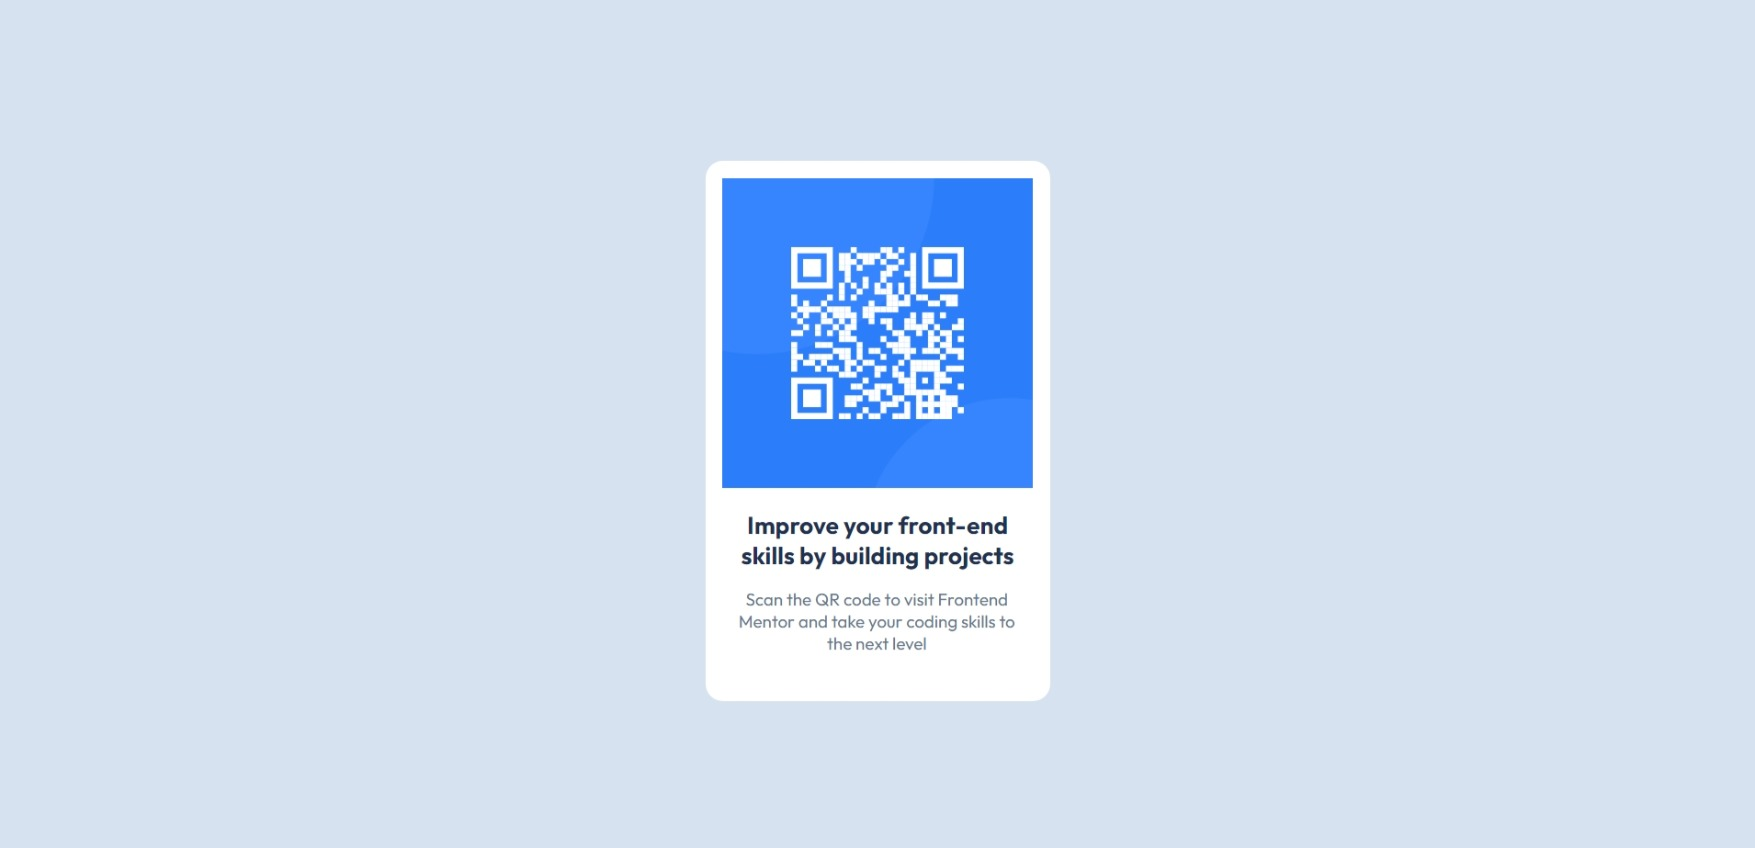
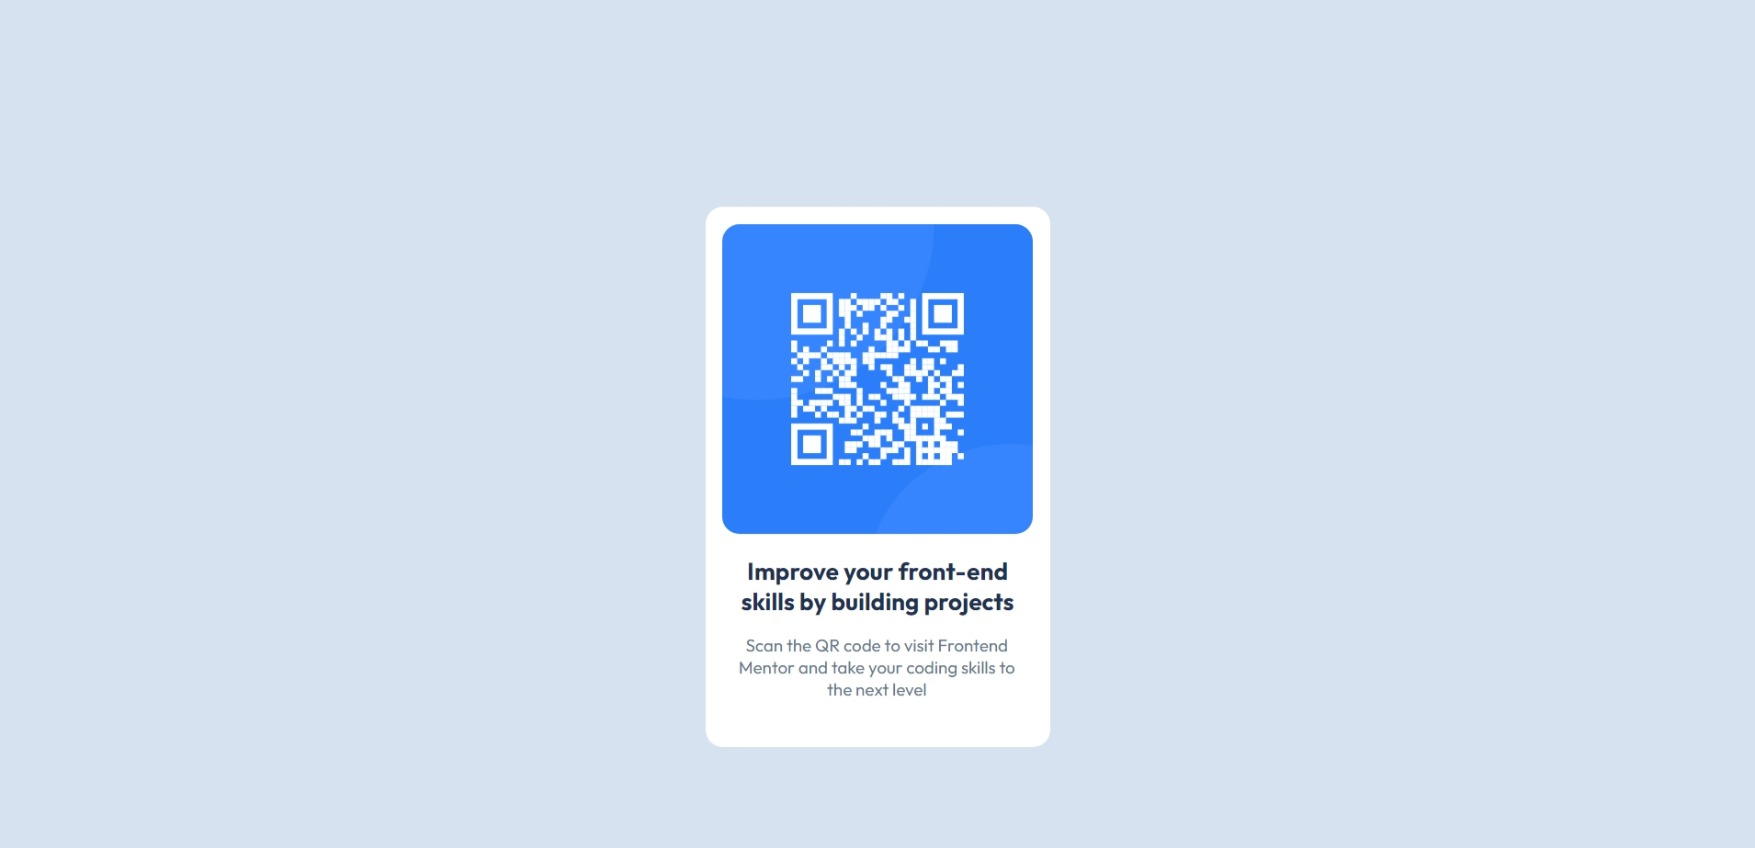
güncellendi

Changed region(s): [[0.4, 0.184, 0.6154, 0.8892]]

diff --git a/style.css b/style.css
@@ -10,11 +10,11 @@ text-align: center;
     height: 470px;
     width: 300px;
     background-color: white;
-    margin: 140px auto 0 auto;
+    margin: 180px auto 0 auto;
     border-radius: 15px;
 }
 img{    
-    border-radius: 0px;
+    border-radius: 15px;
     width: 270px;
     height: 270px;
     margin-top: 15px;
